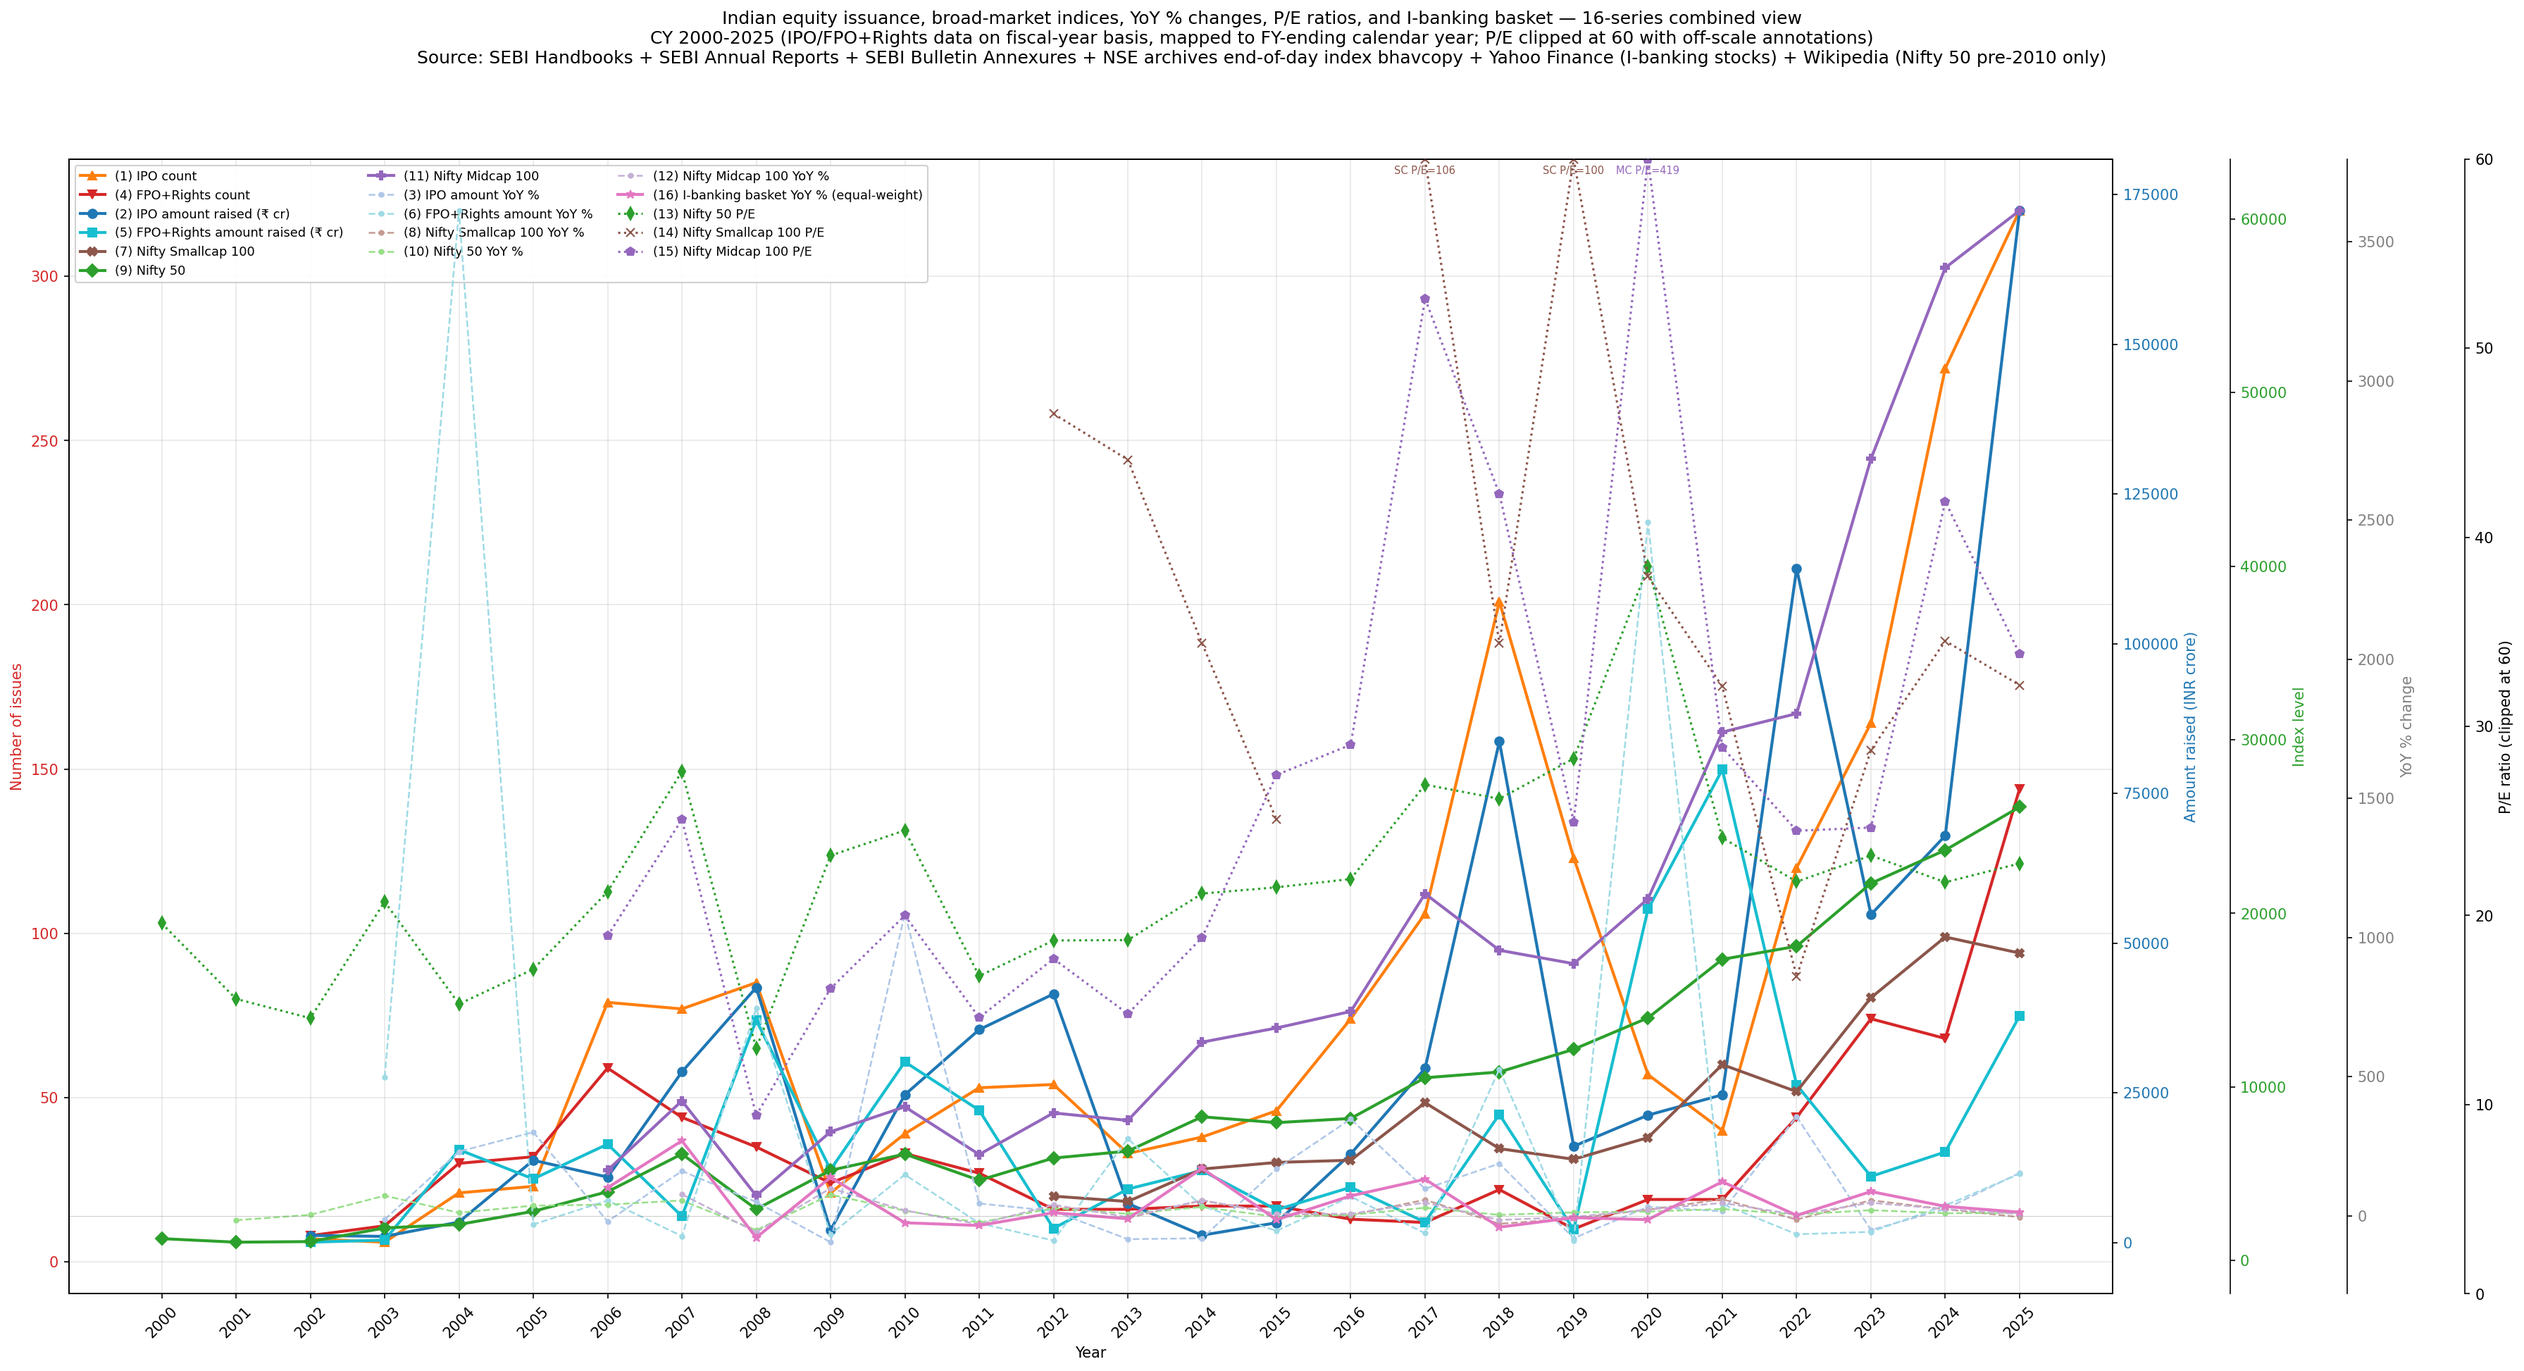
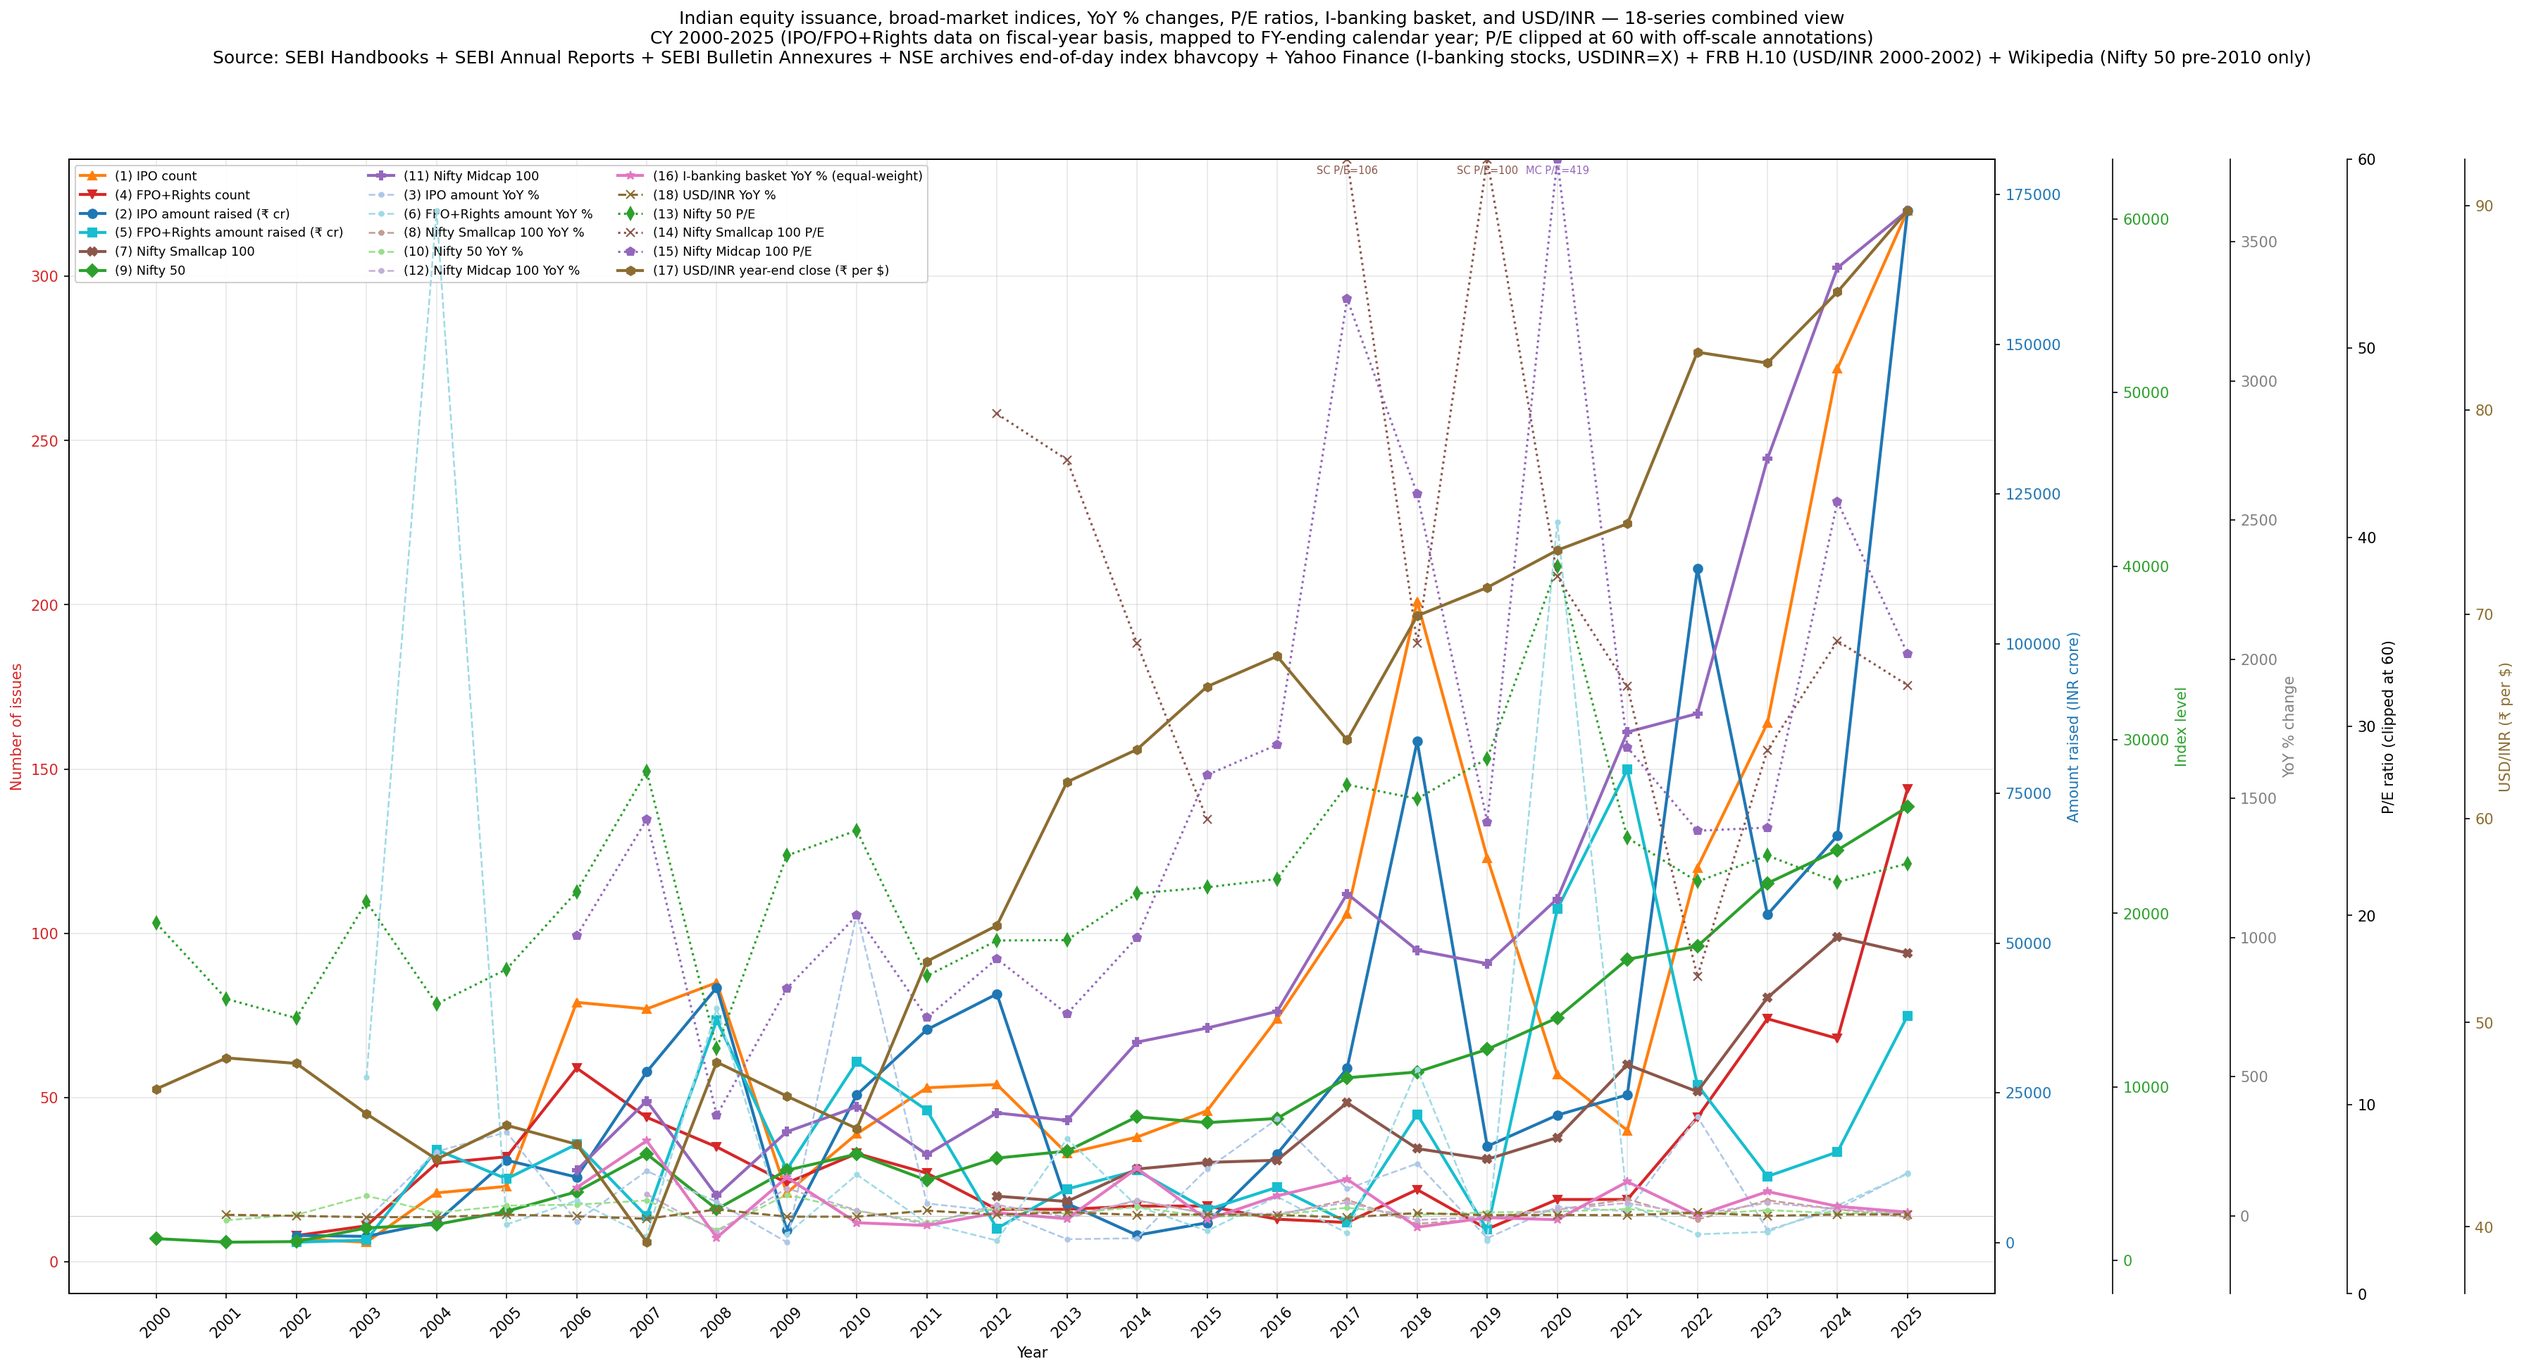
Plot USD/INR rate and USD/INR YoY % on the combined chart and HTML
Two new traces (series #17 and #18):
- (17) USD/INR year-end close — INR per USD, defaultOn, plotted on a
  new 5th y-axis (right side, position 1.12) with bronze color.
- (18) USD/INR YoY % — dashed line on the existing YoY % y4 axis;
  shows the two biggest INR shocks (2008 +22%, 2013 +13%) inline
  with the equity / I-bank YoY % moves.

build_interactive_data.py: new load_usd_inr() reads usd_inr_data.csv,
aligns to 2000-2025 year index, computes YoY %, emits usd_inr +
usd_inr_yoy arrays in the JSON payload.

plot_all_series.py: 6th matplotlib twinx axis for USD/INR rate;
USD/INR YoY % added to the existing percentage axis. Updated chart
title to "18-series combined view".

all_series_interactive.html: re-inlined DATA, added the two new
traces to SERIES, new yaxis5 definition (right side at position
1.12), "USD/INR" added to the checkbox category list, "Show
USD/INR only" preset button, subtitle and legend tips updated.
Total SERIES count now 23 across 6 categories.

diff --git a/MarketTiming/EquityIssuanceVsIndex/all_series_interactive.html b/MarketTiming/EquityIssuanceVsIndex/all_series_interactive.html
@@ -55,7 +55,7 @@
 </head>
 <body>
 <h1>Indian equity issuance vs broad-market indices — interactive 2000-2025</h1>
-<div class="subtitle">12 macro series + I-banking basket (equal-weighted YoY %) + 8 individual I-bank stocks on the top chart + P/E heatmap (bottom). Toggle individual series via the checkboxes or the chart legend. Sources: SEBI Handbooks / SEBI Annual Reports / SEBI Bulletin Annexures / NSE archives bhavcopy / Yahoo Finance (I-banking stocks).</div>
+<div class="subtitle">12 macro series + I-banking basket + 8 individual I-bank stocks + USD/INR year-end rate + USD/INR YoY % on the top chart + P/E heatmap (bottom). Toggle individual series via the checkboxes or the chart legend. Sources: SEBI Handbooks / SEBI Annual Reports / SEBI Bulletin Annexures / NSE archives bhavcopy / Yahoo Finance (I-banking stocks, USDINR=X) / FRB H.10 (USD/INR 2000-2002).</div>
 
 <div class="controls">
   <div class="group">
@@ -91,6 +91,7 @@
     <button onclick="setPresetIndices()">Show indices only</button>
     <button onclick="setPresetYoy()">Show YoY % only</button>
     <button onclick="setPresetIbanks()">Show I-banks only</button>
+    <button onclick="setPresetFx()">Show USD/INR only</button>
     <button onclick="setDefault()">Default</button>
   </div>
 </div>
@@ -100,9 +101,10 @@
   <div id="pe_chart"></div>
   <div class="legend-tips">
     <strong>Top chart:</strong> click a legend item or a checkbox above to hide/show that line individually.
-    All series are independently controllable (12 macro + I-banking basket + 8 individual I-bank stocks).
+    All series are independently controllable (12 macro + I-banking basket + 8 individual I-bank stocks + USD/INR rate + USD/INR YoY %).
     The I-banking basket is the equal-weighted YoY % across companies listed in that year — hover for the
-    basket size (n=2 in 2006/07 → n=8 in 2025). Drag the rangeslider below or use the year inputs to zoom.
+    basket size (n=2 in 2006/07 → n=8 in 2025). USD/INR is the year-end (last business day of December) close
+    on its own y-axis on the far right (₹46.75 in 2000 → ₹89.77 in 2025). Drag the rangeslider below or use the year inputs to zoom.
     <br>
     <strong>Bottom heatmap:</strong> trailing 12M P/E per index per year (green low → red high). Hover for the exact
     value, raw P/E, and normalization detail. "Normalized" replaces 3 cells where earnings collapsed
@@ -1103,7 +1105,63 @@ const DATA = {
       42.08,
       -50.77
     ]
-  }
+  },
+  "usd_inr": [
+    46.75,
+    48.27,
+    48.0,
+    45.53,
+    43.308,
+    44.97,
+    44.04,
+    39.245,
+    48.065,
+    46.4,
+    44.81,
+    53.0,
+    54.753,
+    61.78,
+    63.378,
+    66.455,
+    67.9448,
+    63.8408,
+    69.9225,
+    71.311,
+    73.134,
+    74.4312,
+    82.8351,
+    82.302,
+    85.7866,
+    89.7694
+  ],
+  "usd_inr_yoy": [
+    null,
+    3.25,
+    -0.56,
+    -5.15,
+    -4.88,
+    3.84,
+    -2.07,
+    -10.89,
+    22.47,
+    -3.46,
+    -3.43,
+    18.28,
+    3.31,
+    12.83,
+    2.59,
+    4.85,
+    2.24,
+    -6.04,
+    9.53,
+    1.99,
+    2.56,
+    1.77,
+    11.29,
+    -0.64,
+    4.23,
+    4.64
+  ]
 };
 const YRS = DATA.years;
 
@@ -1204,14 +1262,30 @@ const SERIES = [
       swatch: 'dashed', color: palette[i % palette.length], defaultOn: false,
     }));
   })(),
+
+  // USD/INR year-end rate -> y5 (right, position 1.15)
+  { id:'fx_rate', label:'(17) USD/INR year-end (₹/$)', cat:'USD/INR',
+    trace: { name:'(17) USD/INR year-end close (₹ per $)', x:YRS, y:DATA.usd_inr,
+      mode:'lines+markers', marker:{symbol:'hexagon', size:8},
+      line:{color:'#8c6d31', width:2.4}, yaxis:'y5',
+      hovertemplate: '%{x}: <b>₹%{y:.2f}</b><extra>USD/INR year-end</extra>' },
+    swatch:'solid', color:'#8c6d31', defaultOn:true },
+
+  // USD/INR YoY % -> y4 (existing YoY axis)
+  { id:'fx_yoy', label:'(18) USD/INR YoY %', cat:'USD/INR',
+    trace: { name:'(18) USD/INR YoY %', x:YRS, y:DATA.usd_inr_yoy,
+      mode:'lines+markers', marker:{symbol:'x', size:6},
+      line:{color:'#8c6d31', width:1.5, dash:'dash'}, yaxis:'y4',
+      hovertemplate: '%{x}: <b>%{y:.2f}%</b><extra>USD/INR YoY</extra>' },
+    swatch:'dashed', color:'#8c6d31', defaultOn:true },
 ];
 
 const MAIN_TRACES = SERIES.map(s => ({...s.trace, visible: s.defaultOn ? true : 'legendonly'}));
 
 const MAIN_LAYOUT = {
-  margin: { l: 70, r: 230, t: 10, b: 70 },
+  margin: { l: 70, r: 290, t: 10, b: 70 },
   hovermode: 'x unified',
-  legend: { x: 1.02, y: 1, font: {size: 11}, xanchor: 'left',
+  legend: { x: 1.12, y: 1, font: {size: 11}, xanchor: 'left',
             bgcolor: '#ffffff', bordercolor: '#dddddd', borderwidth: 1 },
   xaxis: {
     title: { text: 'Year', font:{size:12} },
@@ -1231,13 +1305,18 @@ const MAIN_LAYOUT = {
   yaxis3: { // Count
     title: { text: 'Number of issues', font:{color:'#d62728', size:12}, standoff: 6 },
     tickfont: {color:'#d62728', size:11},
-    overlaying: 'y', side: 'right', anchor: 'free', position: 1.05,
+    overlaying: 'y', side: 'right', anchor: 'free', position: 1.04,
   },
   yaxis4: { // YoY %
     title: { text: 'YoY % change', font:{color:'#666', size:12}, standoff: 6 },
     tickfont: {color:'#666', size:11},
-    overlaying: 'y', side: 'right', anchor: 'free', position: 1.10,
+    overlaying: 'y', side: 'right', anchor: 'free', position: 1.08,
     zeroline: true, zerolinecolor: '#ccc',
+  },
+  yaxis5: { // USD/INR rate
+    title: { text: 'USD/INR (₹ per $)', font:{color:'#8c6d31', size:12}, standoff: 6 },
+    tickfont: {color:'#8c6d31', size:11},
+    overlaying: 'y', side: 'right', anchor: 'free', position: 1.12,
   },
 };
 
@@ -1253,7 +1332,7 @@ Plotly.newPlot('main_chart', MAIN_TRACES, MAIN_LAYOUT, CONFIG);
 function buildSeriesPanel() {
   const root = document.getElementById('seriesGroups');
   root.innerHTML = '';
-  const cats = ['Counts', 'Amounts', 'Index level', 'YoY %', 'I-banks'];
+  const cats = ['Counts', 'Amounts', 'Index level', 'YoY %', 'I-banks', 'USD/INR'];
   for (const cat of cats) {
     const grp = document.createElement('div');
     grp.className = 'series-group';
@@ -1316,6 +1395,7 @@ function setPresetAmounts() { setOnlyCats(['Amounts']); }
 function setPresetIndices() { setOnlyCats(['Index level']); }
 function setPresetYoy()     { setOnlyCats(['YoY %']); }
 function setPresetIbanks()  { setOnlyCats(['I-banks']); }
+function setPresetFx()      { setOnlyCats(['USD/INR']); }
 function setDefault() {
   SERIES.forEach((s, i) => {
     const v = s.defaultOn ? true : 'legendonly';

diff --git a/MarketTiming/EquityIssuanceVsIndex/plot_all_series.py b/MarketTiming/EquityIssuanceVsIndex/plot_all_series.py
@@ -25,6 +25,10 @@ calendar year for IPO/FPO+Rights — both labeled with the year):
    10. Nifty 50 YoY %
    12. Nifty Midcap 100 YoY %
    16. I-banking basket YoY % (equal-weighted avg of listed I-bank stocks)
+   18. USD/INR YoY %
+
+  USD/INR rate (sixth y-axis)
+   17. USD/INR year-end close (INR per USD)
 
   Trailing P/E ratio (fifth y-axis, clipped to 0-60 — see caveat below)
    13. Nifty 50 P/E
@@ -88,6 +92,11 @@ def load() -> pd.DataFrame:
     ib_basket = ib_yoy.mean(axis=1, skipna=True)
     df["ibank_basket_yoy"] = ib_basket
 
+    # USD/INR year-end rate + YoY %
+    fx = pd.read_csv(HERE / "usd_inr_data.csv").sort_values("calendar_year").reset_index(drop=True)
+    df["usd_inr"] = fx.set_index("calendar_year")["year_end_close_inr_per_usd"]
+    df["usd_inr_yoy"] = df["usd_inr"].pct_change() * 100
+
     return df.reset_index()
 
 
@@ -97,11 +106,13 @@ def plot(df: pd.DataFrame) -> None:
     ax_index = ax_count.twinx()
     ax_pct = ax_count.twinx()
     ax_pe = ax_count.twinx()
+    ax_fx = ax_count.twinx()
 
     ax_amount.spines["right"].set_position(("outward", 0))
     ax_index.spines["right"].set_position(("outward", 80))
     ax_pct.spines["right"].set_position(("outward", 160))
     ax_pe.spines["right"].set_position(("outward", 240))
+    ax_fx.spines["right"].set_position(("outward", 320))
 
     x = df["year"]
 
@@ -147,8 +158,16 @@ def plot(df: pd.DataFrame) -> None:
         ax_pct.plot(x, df["ibank_basket_yoy"], marker="*", linewidth=2.0,
                     linestyle="-", color="#e377c2",
                     label="(16) I-banking basket YoY % (equal-weight)")[0],
+        ax_pct.plot(x, df["usd_inr_yoy"], marker="x", linewidth=1.5,
+                    linestyle="--", color="#8c6d31",
+                    label="(18) USD/INR YoY %")[0],
     ]
     ax_pct.axhline(0, color="grey", linewidth=0.5, alpha=0.4)
+
+    fx_lines = [
+        ax_fx.plot(x, df["usd_inr"], marker="h", linewidth=2,
+                   color="#8c6d31", label="(17) USD/INR year-end close (₹ per $)")[0],
+    ]
 
     # Clip P/E values >60 to 60 for chart readability; annotate true value.
     PE_CAP = 60
@@ -192,25 +211,27 @@ def plot(df: pd.DataFrame) -> None:
     ax_index.set_ylabel("Index level", color="#2ca02c")
     ax_pct.set_ylabel("YoY % change", color="grey")
     ax_pe.set_ylabel("P/E ratio (clipped at 60)", color="black")
+    ax_fx.set_ylabel("USD/INR (₹ per $)", color="#8c6d31")
 
     ax_count.tick_params(axis="y", labelcolor="#d62728")
     ax_amount.tick_params(axis="y", labelcolor="#1f77b4")
     ax_index.tick_params(axis="y", labelcolor="#2ca02c")
     ax_pct.tick_params(axis="y", labelcolor="grey")
     ax_pe.tick_params(axis="y", labelcolor="black")
+    ax_fx.tick_params(axis="y", labelcolor="#8c6d31")
 
     ax_count.set_xticks(x)
     ax_count.set_xticklabels(x, rotation=45)
     ax_count.grid(True, alpha=0.3)
 
     fig.suptitle(
-        "Indian equity issuance, broad-market indices, YoY % changes, P/E ratios, and I-banking basket — 16-series combined view\n"
+        "Indian equity issuance, broad-market indices, YoY % changes, P/E ratios, I-banking basket, and USD/INR — 18-series combined view\n"
         "CY 2000-2025 (IPO/FPO+Rights data on fiscal-year basis, mapped to FY-ending calendar year; P/E clipped at 60 with off-scale annotations)\n"
-        "Source: SEBI Handbooks + SEBI Annual Reports + SEBI Bulletin Annexures + NSE archives end-of-day index bhavcopy + Yahoo Finance (I-banking stocks) + Wikipedia (Nifty 50 pre-2010 only)",
+        "Source: SEBI Handbooks + SEBI Annual Reports + SEBI Bulletin Annexures + NSE archives end-of-day index bhavcopy + Yahoo Finance (I-banking stocks, USDINR=X) + FRB H.10 (USD/INR 2000-2002) + Wikipedia (Nifty 50 pre-2010 only)",
         fontsize=12, y=0.995,
     )
 
-    lines = cnt_lines + amt_lines + idx_lines + pct_lines + pe_lines
+    lines = cnt_lines + amt_lines + idx_lines + pct_lines + pe_lines + fx_lines
     labels = [ln.get_label() for ln in lines]
     ax_count.legend(lines, labels, loc="upper left", fontsize=8.5,
                     framealpha=0.92, ncol=3)

diff --git a/MarketTiming/EquityIssuanceVsIndex/build_interactive_data.py b/MarketTiming/EquityIssuanceVsIndex/build_interactive_data.py
@@ -83,6 +83,22 @@ def load_ibanks() -> pd.DataFrame:
     return out
 
 
+def load_usd_inr() -> pd.DataFrame:
+    """Read usd_inr_data.csv and align to 2000-2025 year index.
+
+    Returns a DataFrame indexed by `year` with columns:
+      - `usd_inr`        : year-end INR per USD
+      - `usd_inr_yoy`    : YoY % change vs prior year-end
+    """
+    src = HERE / "usd_inr_data.csv"
+    raw = pd.read_csv(src).sort_values("calendar_year").reset_index(drop=True)
+    years = list(range(2000, 2026))
+    out = pd.DataFrame({"year": years}).set_index("year")
+    out["usd_inr"] = raw.set_index("calendar_year")["year_end_close_inr_per_usd"]
+    out["usd_inr_yoy"] = (out["usd_inr"].pct_change() * 100).round(2)
+    return out
+
+
 def normalize_pe(price: pd.Series, pe: pd.Series):
     """Return (normalized_pe, flag, note) Series aligned to price's index."""
     out_pe, out_flag, out_note = [], [], []
@@ -121,6 +137,9 @@ def main() -> None:
     ibank_company_cols = [c for c in ibanks.columns if c not in ("ibank_basket_yoy", "ibank_basket_n")]
     df = df.join(ibanks, how="left")
 
+    fx = load_usd_inr()
+    df = df.join(fx, how="left")
+
     df = df.reset_index()
     col = lambda name: [None if pd.isna(v) else float(v) for v in df[name].tolist()]
 
@@ -154,6 +173,8 @@ def main() -> None:
         "ibank_basket_n":        [None if pd.isna(v) else int(v) for v in df["ibank_basket_n"].tolist()],
         "ibank_companies":       ibank_company_cols,
         "ibank_company_yoy":     {c: [None if pd.isna(v) else round(float(v), 2) for v in df[c].tolist()] for c in ibank_company_cols},
+        "usd_inr":               [None if pd.isna(v) else round(float(v), 4) for v in df["usd_inr"].tolist()],
+        "usd_inr_yoy":           [None if pd.isna(v) else round(float(v), 2) for v in df["usd_inr_yoy"].tolist()],
     }
     print(json.dumps(payload, indent=2))
 
